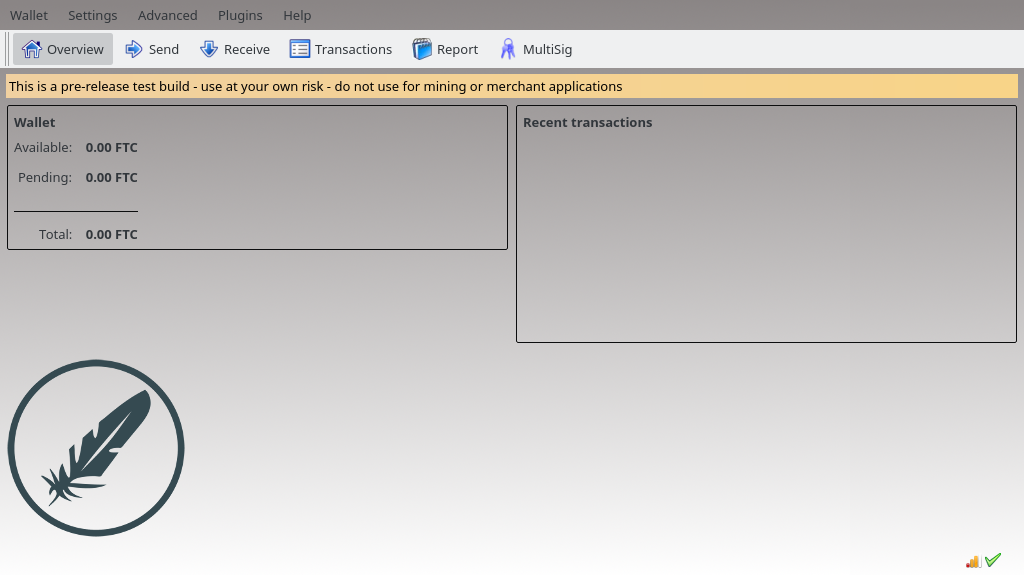
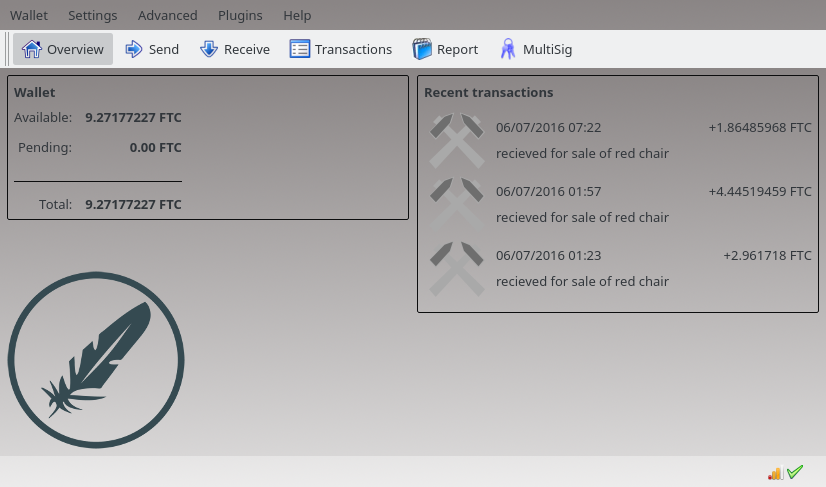
Updated main screen example, smaller, with coins information present, added intro text.

diff --git a/README.md b/README.md
@@ -1,6 +1,6 @@
 # FeathercoinWalletGuide
 
-Feathercoin Wallet guide aims to show what the features are of the Feathercoin Wallet can be used. Many features have been experimental since the 0.8.x series. The guide starts at version 0.9.3.2
+Feathercoin Wallet guide aims to show what the features are of the Feathercoin Wallet can be used. Many features have been experimental since the 0.8.x series. The guide starts at version 0.9.3.2 and greater.
 
 
 Feathercoin 0.9.3.2 
@@ -36,10 +36,18 @@ Feathercoin development is already moving on to including FTC facilities in 0.11
 
 Advantages of the 0.9.3.x series include, move to Qt5, speed increase, DNS seeds, improved database synchronising.
 
-Official windows builds and Linux PPAs are available from Feathercoin.com.
+Official Windows builds and Linux PPAs are available from Feathercoin.com.
 
 
-**Feathercoin Wallet Main Screen**
+**Feathercoin Wallet Main Screen and Buttons**
+
+The main screen contains three parts, the menus, the buttons and the wallet overview.
+
+The menus contain a large number of features whereas the buttons have been chosen to represent the basic operation of the wallet that most people will need to perform.
+
+Tip : Right click with your mouse on the button menu and click on the buttons menu to show the Tabs Toolbar checkbox which closes the button toolbar if you only use the menu options.
+
+The overview page is self explainatory, the left side showing the current overall balance and on the right the most recent transactions that have occured.
 
 ![Wallet Main Screen](/images/ftc-0.9.3.2-main.screen.01.png)
 
